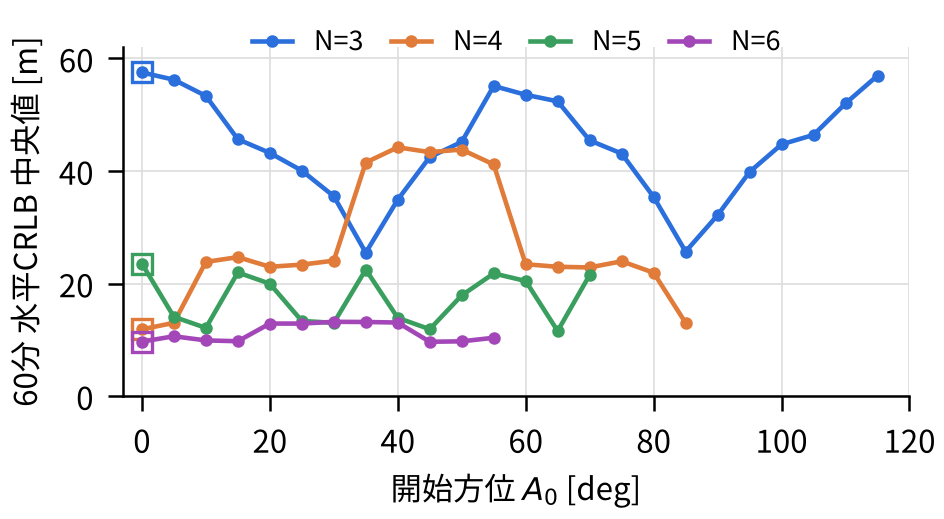
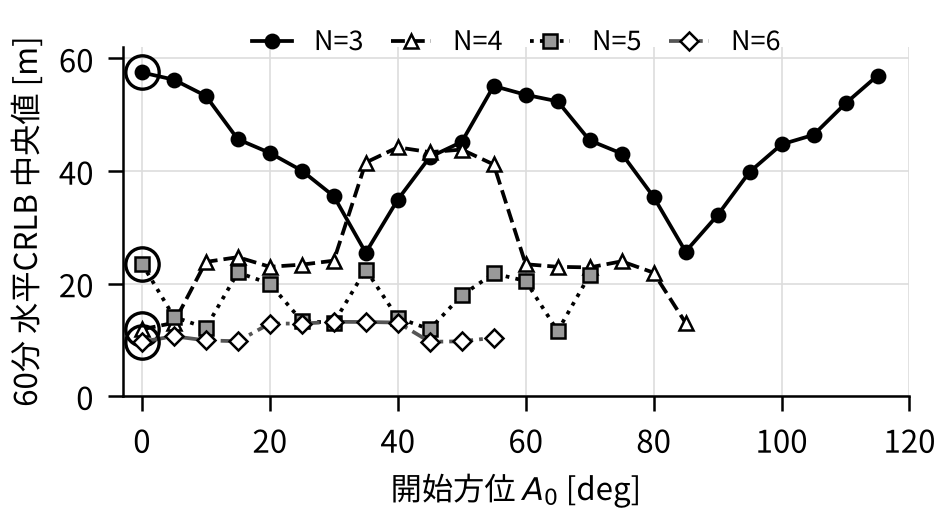
Grayscale JIN figures; Fig.1 as 24h sky observation-density map with apertures
Claude-Session: https://claude.ai/code/session_01XQQgEH5a1k9jx3u33YPHqE

diff --git a/research/sky_aperture_leo/figures_jin_20261013.py b/research/sky_aperture_leo/figures_jin_20261013.py
@@ -28,36 +28,38 @@ def base_centers(n):
     return rc.equal_az(n, 0.0, el)
 
 
-def fig_sky(cache):
-    norad = cache["norad"]
-    fig, axs = plt.subplots(2, 3, figsize=(W_IN, W_IN * 0.72), subplot_kw=dict(projection="polar"))
-    day = cache["t"] < rc.DAY
-    tracks = []
-    for nid, ls in [(x, "-") for x in REP43] + [(x, "--") for x in REP53]:
-        k = int(np.flatnonzero(norad == nid)[0])
-        m = day & (cache["sat"] == k) & (cache["sky"][:, 2] > 0)
-        t = cache["t"][m]; s = cache["sky"][m]
-        brk = np.flatnonzero(np.diff(t) > 1) + 1
-        for seg_t, seg in zip(np.split(t, brk), np.split(s, brk)):
-            seg = seg[::30]
-            az = np.arctan2(seg[:, 0], seg[:, 1]); zen = 90 - np.degrees(np.arcsin(seg[:, 2]))
-            tracks.append((az, zen, ls))
+def fig_sky(cache=None):
+    """Grayscale sky map of 24-h observation counts for a 10-deg aperture centred at
+    each direction (E9_sky_density_N1.csv, all 637 satellites), with the reference
+    apertures of N=1..6 overlaid."""
+    d = pd.read_csv(RES / "E9_sky_density_N1.csv")
+    d = d[d.el < 90]
+    A = np.radians(np.append(np.sort(d.az.unique()), 360.0))
+    E = np.sort(d.el.unique())
+    Z = d.pivot(index="el", columns="az", values="n_obs").values / 1000.0
+    Z = np.hstack([Z, Z[:, :1]])
+    fig = plt.figure(figsize=(W_IN, W_IN * 0.92))
+    axs = [fig.add_axes([0.06 + 0.32 * (k % 3), 0.58 - 0.38 * (k // 3), 0.26, 0.32], projection="polar")
+           for k in range(6)]
+    from matplotlib.colors import PowerNorm
     th = np.linspace(0, 2 * np.pi, 120)
-    for n, ax in zip(range(1, 7), axs.flat):
+    for n, ax in zip(range(1, 7), axs):
         ax.set_theta_zero_location("N"); ax.set_theta_direction(-1)
+        pc = ax.pcolormesh(A, 90 - E, Z, shading="gouraud", cmap="Greys", norm=PowerNorm(0.5, vmin=0, vmax=40), rasterized=True)
+        ax.fill_between(np.linspace(0, 2 * np.pi, 200), 80, 90, facecolor="none", edgecolor="#aaaaaa", hatch="////", lw=0)
         ax.set_ylim(0, 90); ax.set_yticks([30, 60]); ax.set_yticklabels([])
         ax.set_xticks(np.radians([0, 90, 180, 270])); ax.set_xticklabels([])
-        ax.text(0, 104, "N", ha="center", va="bottom", fontsize=6)
-        ax.grid(color=GRID, lw=0.4)
-        for az, zen, ls in tracks:
-            ax.plot(az, zen, color="#b0b0b0", lw=0.3, ls=ls)
+        ax.grid(color="#888888", lw=0.3, ls=":")
+        ax.text(0, 103, "N", ha="center", va="bottom", fontsize=6)
         for a, e in base_centers(n):
-            # 5-deg circle around the centre (small-angle drawing in az/zenith coords)
             z0 = 90 - e
             dz = 5 * np.cos(th); da = np.radians(5 * np.sin(th) / max(math.sin(math.radians(z0)), 0.2))
-            ax.fill(np.radians(a) + da, z0 + dz, color=C[0], alpha=0.85, lw=0)
-        ax.text(np.radians(-45), 128, f"N={n}", ha="center", va="center", fontsize=7, fontweight="bold")
-    fig.subplots_adjust(left=0.05, right=0.97, top=0.92, bottom=0.03, wspace=0.3, hspace=0.32)
+            ax.fill(np.radians(a) + da, z0 + dz, facecolor="white", edgecolor="black", lw=0.9, zorder=5)
+        ax.text(np.radians(-42), 122, f"N={n}", ha="center", va="center", fontsize=7, fontweight="bold")
+    cax = fig.add_axes([0.2, 0.12, 0.6, 0.025])
+    cb = fig.colorbar(pc, cax=cax, orientation="horizontal")
+    cb.set_label("開口中心を置いた方向ごとの24時間観測点数 [千点]（斜線：仰角10°未満）", fontsize=6.3)
+    cb.ax.tick_params(labelsize=6); cb.set_ticks([0, 5, 10, 20, 30, 40])
     fig.savefig(OUT / "jin_fig1_sky.png", dpi=300); plt.close(fig)
 
 
@@ -70,18 +72,18 @@ def fig_wait():
     fig, ax = plt.subplots(2, 1, figsize=(W_IN, W_IN * 0.78), sharex=True,
                            gridspec_kw=dict(height_ratios=[1.15, 1]))
     a = ax[0]
-    a.plot(w[show], d.H_med[show], color=C[0], lw=1.3, label="水平 中央値")
-    a.plot(w[show90], d.H_p90[show90], color=C[0], lw=0.9, ls="--", label="水平 P90")
-    a.plot(w[show], d.D_med[show], color=C[1], lw=1.3, label="3次元 中央値")
+    a.plot(w[show], d.H_med[show], color="black", lw=1.3, ls="-", label="水平 中央値")
+    a.plot(w[show90], d.H_p90[show90], color="black", lw=1.0, ls="--", label="水平 P90")
+    a.plot(w[show], d.D_med[show], color="#777777", lw=1.6, ls="-", label="3次元 中央値")
     a.axhline(100, color=INK, lw=0.6, ls=":")
     a.set_yscale("log"); a.set_ylabel("CRLB [m]")
     a.set_yticks([50, 100, 200, 500]); a.set_yticklabels(["50", "100", "200", "500"])
     a.minorticks_off()
     a.grid(True, color=GRID, lw=0.4); a.legend(frameon=False, fontsize=6.5, loc="upper right")
     b = ax[1]
-    b.plot(w, d.regular_pct, color=INK, lw=1.0, label="正則率")
-    b.plot(w, d.valid_pct, color=C[2], lw=1.3, label="有効率（3D≤1 km）")
-    b.plot(w, d.A100, color=C[0], lw=1.3, label="水平≤100 m 達成率")
+    b.plot(w, d.regular_pct, color="black", lw=1.0, ls=":", label="正則率")
+    b.plot(w, d.valid_pct, color="#777777", lw=1.6, ls="-", label="有効率（3D≤1 km）")
+    b.plot(w, d.A100, color="black", lw=1.3, ls="-", label="水平≤100 m 達成率")
     b.set_ylim(0, 102); b.set_ylabel("割合 [%]"); b.set_xlabel("待ち時間 T [min]")
     b.grid(True, color=GRID, lw=0.4); b.legend(frameon=False, fontsize=6.5, loc="lower right")
     fig.tight_layout(pad=0.3, h_pad=0.4); fig.savefig(OUT / "jin_fig2_wait.png", dpi=300); plt.close(fig)
@@ -90,10 +92,13 @@ def fig_wait():
 def fig_az():
     d = pd.read_csv(RES / "E2_azimuth_sweep.csv")
     fig, ax = plt.subplots(figsize=(W_IN, W_IN * 0.55))
-    for k, n in enumerate((3, 4, 5, 6)):
+    sty = {3: ("o", "-", "black", "black"), 4: ("^", "--", "black", "white"),
+           5: ("s", ":", "black", "#999999"), 6: ("D", "-.", "#555555", "white")}
+    for n in (3, 4, 5, 6):
+        mk, ls, col, face = sty[n]
         s = d[d.N == n].sort_values("A0")
-        ax.plot(s.A0, s.H_med, marker="o", ms=2, lw=1.1, color=C[k], label=f"N={n}")
-        ax.plot([0], s.H_med.iloc[:1], marker="s", ms=5, mfc="none", mew=0.8, color=C[k])
+        ax.plot(s.A0, s.H_med, marker=mk, ms=3.2, lw=0.9, ls=ls, color=col, mfc=face, mec="black", mew=0.6, label=f"N={n}")
+        ax.plot([0], s.H_med.iloc[:1], marker="o", ms=8, mfc="none", mec="black", mew=0.8, ls="none")
     ax.set_xlabel("開始方位 $A_0$ [deg]")
     ax.set_ylabel("60分 水平CRLB 中央値 [m]")
     ax.set_ylim(0, 62); ax.set_xlim(-3, 120); ax.grid(True, color=GRID, lw=0.4)
